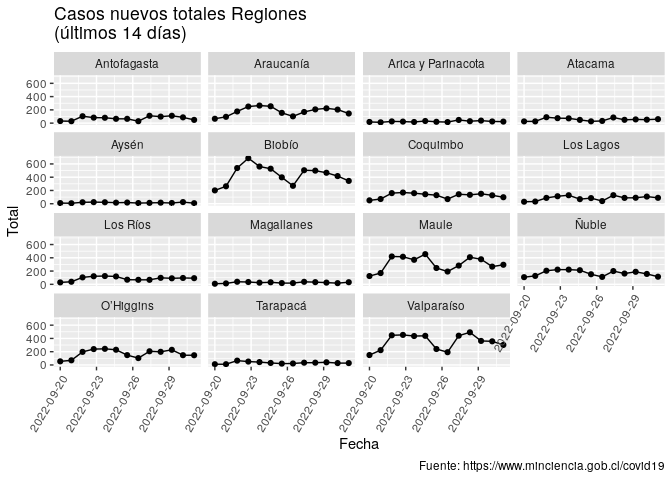
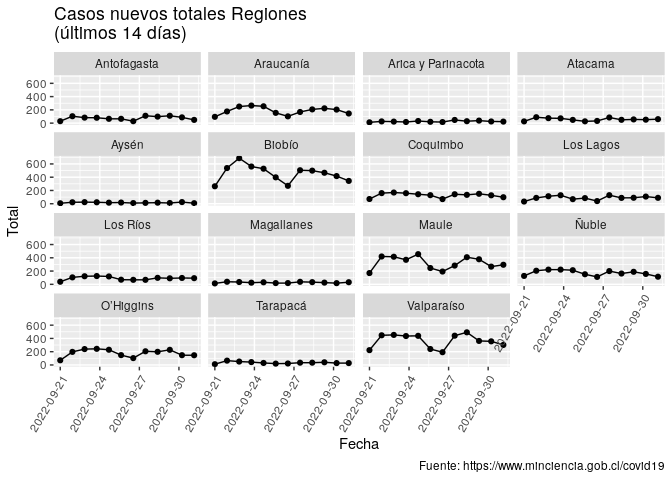
Re-build Rmarkdown files

diff --git a/README.md b/README.md
@@ -3,7 +3,7 @@
 
 Ejemplo de uso de total\_casos de COVID recopilados por el Ministerio de
 Ciencia de Chile <https://www.minciencia.gob.cl/covid19>. Última
-actualización: 2022-10-03
+actualización: 2022-10-04
 
 ## Visualización desde el comienzo de la pandemia
 
